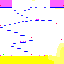
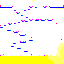
adding changes

diff --git a/gamesystem/docs/js/Canvas.js b/gamesystem/docs/js/Canvas.js
@@ -74,9 +74,13 @@ class Canvas {
         for (let y = yStart; y < yEnd; y++) {
             for (let x = xStart; x < xEnd; x++) {
                 let tile = level.layout[y][x];
-                if (tile !== "empty" && tile !== "clip") {
+                if (tile !== "empty" && tile !== "clip") 
+                if (tile !== "empty" && tile !== "clip2") {
                     let screenX = (x - left) * scale;
                     let screenY = (y - top) * scale;
+                    
+                    
+                    
 
                     if(tile !== undefined) {
                         this.mapCtx.drawImage(sources[tile].image, screenX, screenY, scale, scale);
@@ -199,6 +203,45 @@ class Canvas {
                 let tileX = tile * sources.enemy3.width;
                 // this.actorsCtx.clearRect(actor.prevX , actor.prevY , width, height);
                 this.actorsCtx.drawImage(sources.enemy3.image, tileX, 0, sources.enemy3.width, sources.enemy3.height, x, y, width, height);
+                actor.prevX = x;
+                actor.prevY = y;
+                // this.actorsCtx.restore();
+            } else if (actor.type == "enemy4") {
+                // this.flipPlayer = actor.speed.x > 0;
+                let tile = Math.floor(Date.now() / 60) % 4;
+                // this.actorsCtx.save();
+                // if (this.flipPlayer) {
+                //     this.flipHorizontally(this.actorsCtx, x + width / 2);
+                // }
+                let tileX = tile * sources.enemy4.width;
+                // this.actorsCtx.clearRect(actor.prevX , actor.prevY , width, height);
+                this.actorsCtx.drawImage(sources.enemy4.image, tileX, 0, sources.enemy4.width, sources.enemy4.height, x, y, width, height);
+                actor.prevX = x;
+                actor.prevY = y;
+                // this.actorsCtx.restore();
+            } else if (actor.type == "MovingPlatform") {
+                // this.flipPlayer = actor.speed.x > 0;
+                let tile = 0
+                // this.actorsCtx.save();
+                // if (this.flipPlayer) {
+                //     this.flipHorizontally(this.actorsCtx, x + width / 2);
+                // }
+                let tileX = tile * sources.MovingPlatform.width;
+                // this.actorsCtx.clearRect(actor.prevX , actor.prevY , width, height);
+                this.actorsCtx.drawImage(sources.MovingPlatform.image, tileX, 0, sources.MovingPlatform.width, sources.MovingPlatform.height, x, y, width, height);
+                actor.prevX = x;
+                actor.prevY = y;
+                // this.actorsCtx.restore();
+            } else if (actor.type == "MovingPlatform2") {
+                // this.flipPlayer = actor.speed.x > 0;
+                let tile = Math.floor(Date.now() / 60) % 4;
+                // this.actorsCtx.save();
+                // if (this.flipPlayer) {
+                //     this.flipHorizontally(this.actorsCtx, x + width / 2);
+                // }
+                let tileX = tile * sources.MovingPlatform2.width;
+                // this.actorsCtx.clearRect(actor.prevX , actor.prevY , width, height);
+                this.actorsCtx.drawImage(sources.MovingPlatform2.image, tileX, 0, sources.MovingPlatform2.width, sources.MovingPlatform2.height, x, y, width, height);
                 actor.prevX = x;
                 actor.prevY = y;
                 // this.actorsCtx.restore();

diff --git a/gamesystem/docs/js/map.js b/gamesystem/docs/js/map.js
@@ -1,5 +1,6 @@
 const levelKey = {
     "0,0,0": "empty",
+    "255,15,255": "clip2",
     "255,0,255": "clip",
     "0,0,255": "platformC",
     "100,0,255": "platformL",
@@ -15,10 +16,13 @@ const levelKey = {
     "255,0,100": Item,
     "255,100,255": Enemy,
     "255,50,255": Enemy2,
-    "255,200,255": Enemy3
+    "255,200,255": Enemy3,
+    "255,50,100": Enemy4,
+    "255,75,255": MovingPlatform,
+    "255,25,255": MovingPlatform2,
 };
 
-const groundTypes = ["grass", "ground", "platformC", "platformR", "platformL"];
+const groundTypes = ["grass", "ground", "platformC", "platformR", "platformL","MovingPlatform","MovingPlatform2"];
 
 let sources = {
     player: {
@@ -50,6 +54,15 @@ let sources = {
     },
     enemy3: {
         src: 'img/sprites/player3.png',
+        srcWidth: 128,
+        srcHeight: 32,
+        width: 32,
+        height: 32,
+        offsetX: 0,
+        offsetY: 0
+    },
+    enemy4: {
+        src: 'img/sprites/player4.png',
         srcWidth: 128,
         srcHeight: 32,
         width: 32,
@@ -94,6 +107,24 @@ let sources = {
         offsetY: 0
     },
     platformC: {
+        src: 'img/sprites/cavedude_side2.png',
+        srcWidth: 32,
+        srcHeight: 32,
+        width: 32,
+        height: 32,
+        offsetX: 32,
+        offsetY: 480
+    },
+    MovingPlatform: {
+        src: 'img/sprites/cavedude_side2.png',
+        srcWidth: 32,
+        srcHeight: 32,
+        width: 32,
+        height: 32,
+        offsetX: 32,
+        offsetY: 480
+    },
+    MovingPlatform2: {
         src: 'img/sprites/cavedude_side2.png',
         srcWidth: 32,
         srcHeight: 32,
@@ -175,5 +206,5 @@ let sources = {
         offsetX: 352,
         offsetY: 320
     },
-    map1: {src: 'img/maps/map1test.png'}
+    map1: {src: 'img/maps/debugmap.png'}
 };

diff --git a/gamesystem/docs/js/Enemy4.js b/gamesystem/docs/js/Enemy4.js
@@ -1,0 +1,59 @@
+class Enemy4
+{
+    constructor(pos, speed, delta, prevX, prevY)
+    {
+        this.pos = pos;
+        this.speed = speed;
+        this.size = new Vector(2, 2);
+        this.delta = delta;
+        this.xSpeed = 8;
+        this.ySpeed = 16;
+        this.prevX = prevX;
+        this.prevY = prevY;
+    }
+
+    static create(pos) {
+        return new Enemy4(pos.plus(new Vector(0, -1)), new Vector(1, 0), 1);
+    }
+    get type()
+    { 
+        return "enemy4";
+    }
+
+    collide = function(state)
+    {
+        return new State(state.level, state.actors, "lost");
+    }
+
+
+    update = function(time, state)
+    {
+        let currentXSpeed = this.xSpeed * this.delta;
+        let pos = this.pos;
+        let movedX = pos.plus(new Vector(currentXSpeed * time, 0));
+
+        if (!state.level.touches(movedX, this.size, ["clip", "grass", "ground", "platformC", "platformR", "platformL"])) {
+            pos = movedX;
+        } else {
+            this.delta *= -1;
+        }
+
+        let currentYSpeed = this.speed.y + time ;
+        let movedY = pos.plus(new Vector(0, currentYSpeed * time));
+
+        if (!state.level.touches(movedY, this.size, ["clip", "grass", "ground", "platformC", "platformR", "platformL"])) {
+            pos = movedY;
+        } else {
+            currentYSpeed = -40 - 8
+            currentXSpeed =  -40 - 8;
+        }
+        if (!state.level.touches(movedY, this.size, ["clip"])) {
+            pos = movedY;
+        } else {
+            currentYSpeed = 70 + 8;
+            currentXSpeed = 20 + 8;
+        }
+
+        return new Enemy4(pos, new Vector(currentXSpeed, currentYSpeed), this.delta, this.prevX, this.prevY);
+    }
+}

diff --git a/gamesystem/docs/js/MovingPlatform.js b/gamesystem/docs/js/MovingPlatform.js
@@ -1,0 +1,53 @@
+class MovingPlatform
+{
+    constructor(pos, speed, delta, prevX, prevY)
+    {
+        this.pos = pos;
+        this.speed = speed;
+        this.size = new Vector(5, 1);
+        this.delta = delta;
+        this.xSpeed = 0;
+        this.ySpeed = 8
+        this.prevX = prevX;
+        this.prevY = prevY;
+    }
+
+    static create(pos) {
+        return new MovingPlatform(pos.plus(new Vector(0, -1)), new Vector(1, 0), 1);
+    }
+    collide = function(state)
+    {
+      return state 
+}
+    get type()
+    { 
+        return "MovingPlatform";
+    }
+    update = function(time, state)
+    {
+        let currentXSpeed = this.xSpeed * this.delta;
+        let pos = this.pos;
+        let movedX = pos.plus(new Vector(currentXSpeed * time, 0));
+
+        if (!state.level.touches(movedX, this.size, ["clip", "grass", "ground", "platformC", "platformR", "platformL"])) {
+            pos = movedX;
+        } else {
+            this.delta *= -1;
+        }
+
+        let currentYSpeed = this.speed.y + time ;
+        let movedY = pos.plus(new Vector(0, currentYSpeed * time));
+
+        if (!state.level.touches(movedY, this.size, ["clip2","grass","ground"])) {
+            pos = movedY;
+        } else {
+            currentYSpeed = -16;
+        }
+        if (!state.level.touches(movedY, this.size, ["clip"])) {
+            pos = movedY;
+        } else {
+            currentYSpeed = 16;
+        }
+        return new MovingPlatform(pos, new Vector(currentXSpeed, currentYSpeed), this.delta, this.prevX, this.prevY);
+    }
+}

diff --git a/gamesystem/docs/js/MovingPlatform2.js b/gamesystem/docs/js/MovingPlatform2.js
@@ -1,0 +1,53 @@
+class MovingPlatform2
+{
+    constructor(pos, speed, delta, prevX, prevY)
+    {
+        this.pos = pos;
+        this.speed = speed;
+        this.size = new Vector(5, 1);
+        this.delta = delta;
+        this.xSpeed = 8;
+        this.ySpeed = 0
+        this.prevX = prevX;
+        this.prevY = prevY;
+    }
+
+    static create(pos) {
+        return new MovingPlatform2(pos.plus(new Vector(0, -1)), new Vector(1, 0), 1);
+    }
+    collide = function(state)
+    {
+        
+    }
+    get type()
+    { 
+        return "MovingPlatform2";
+    }
+    update = function(time, state)
+    {
+        let currentXSpeed = this.xSpeed * this.delta;
+        let pos = this.pos;
+        let movedX = pos.plus(new Vector(currentXSpeed * time, 0));
+
+        if (!state.level.touches(movedX, this.size, ["clip", "grass", "ground", "platformC", "platformR", "platformL"])) {
+            pos = movedX;
+        } else {
+            this.delta *= -1;
+        }
+
+        let currentYSpeed = this.speed.x + time ;
+        let movedY = pos.plus(new Vector(0, currentYSpeed * time));
+
+        if (!state.level.touches(movedY, this.size, ["grass","ground"])) {
+            pos = movedY;
+        } else {
+            currentYSpeed = 0;
+        }
+        if (!state.level.touches(movedX, this.size, ["clip"])) {
+            pos = movedY;
+        } else {
+            currentXSpeed = 14;
+        }
+        return new MovingPlatform2(pos, new Vector(currentXSpeed, currentYSpeed), this.delta, this.prevX, this.prevY);
+    }
+}

diff --git a/gamesystem/docs/index.html b/gamesystem/docs/index.html
@@ -4,16 +4,22 @@
     <meta charset="UTF-8">
     <meta name="viewport" content="width=device-width, initial-scale=1.0">
     <meta http-equiv="X-UA-Compatible" content="ie=edge">
-    <title>Game engine</title>
+    <title>Game Engine</title>
     <link rel="stylesheet" href="css/reset.css">
     <link rel="stylesheet" href="css/style.css">
 </head>
 <body>
     <div id="stage"></div>
+    
     <script src="js/Lava.js"></script>
     <script src="js/Item.js"></script>
     <script src="js/Rock.js"></script>
     <script src="js/Enemy.js"></script>
+    <script src="js/Enemy2.js"></script>
+    <script src="js/Enemy3.js"></script>
+    <script src="js/Enemy4.js"></script>
+    <script src="js/MovingPlatform.js"></script>
+    <script src="js/MovingPlatform2.js"></script>
     <script src="js/Level.js"></script>
     <script src="js/Player.js"></script>
     <script src="js/Vector.js"></script>

diff --git a/gamesystem/docs/js/Player.js b/gamesystem/docs/js/Player.js
@@ -3,7 +3,7 @@ class Player
     constructor(pos, speed, prevX, prevY)
     {
         this.pos = pos;
-        this.size = new Vector(2, 2);
+        this.size = new Vector(1, 1);
         this.speed = speed;
         this.xOverlap = 4;
         this.xSpeed = 8;
@@ -49,7 +49,6 @@ class Player
             }
             currentYSpeed = 0;
         }
-
-        return new Player(pos, new Vector(currentXSpeed, currentYSpeed), this.prevX, this.prevY);
+        return new Player(pos, new Vector(currentXSpeed, currentYSpeed), this.prevX, this.prevY, this.delta);
     }
 }

diff --git a/gamesystem/docs/js/Lava.js b/gamesystem/docs/js/Lava.js
@@ -16,7 +16,7 @@ class Lava
     static create(pos, color) 
     {
         if (color == "255,255,155") {
-            return new Lava(pos, new Vector(0, 3), pos);
+            return new Lava(pos, new Vector(0, 5.5), pos);
         } else {
             return new Lava(pos, new Vector(0, 0));
         }

diff --git a/gamesystem/docs/js/Enemy.js b/gamesystem/docs/js/Enemy.js
@@ -4,7 +4,7 @@ class Enemy
     {
         this.pos = pos;
         this.speed = speed;
-        this.size = new Vector(1.5, 1.5);
+        this.size = new Vector(1, 1);
         this.delta = delta;
         this.xSpeed = 3;
         this.prevX = prevX;

diff --git a/gamesystem/docs/js/Enemy2.js b/gamesystem/docs/js/Enemy2.js
@@ -12,7 +12,7 @@ class Enemy2
     }
 
     static create(pos) {
-        return new Enemy2(pos.plus(new Vector(0, -1)), new Vector(2, 0), 1);
+        return new Enemy2(pos.plus(new Vector(0, -1)), new Vector(2, 1), 1);
     }
 
     get type()

diff --git a/gamesystem/docs/js/Rock.js b/gamesystem/docs/js/Rock.js
@@ -31,11 +31,9 @@ class Rock
         }
         return state;
     }
-
     update = function(time, state)
     {
         let newPos = this.pos.plus(this.speed.times(time));
         return new Rock(newPos, this.speed);
     }
-    
 }

diff --git a/gamesystem/docs/js/State.js b/gamesystem/docs/js/State.js
@@ -50,7 +50,6 @@ class State
                     newState = actor.collide(newState, keys);
             }
         }
-
         return newState;
     }
 }
